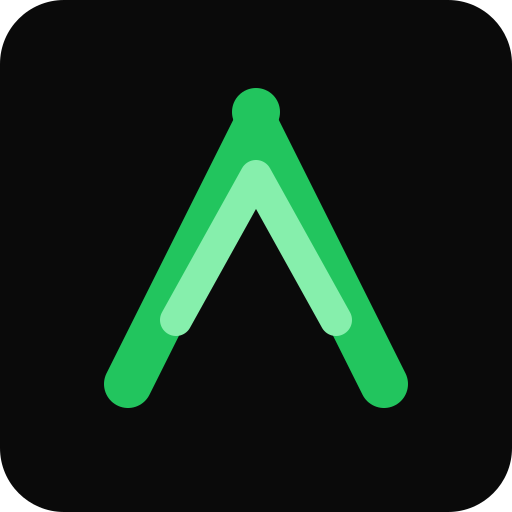
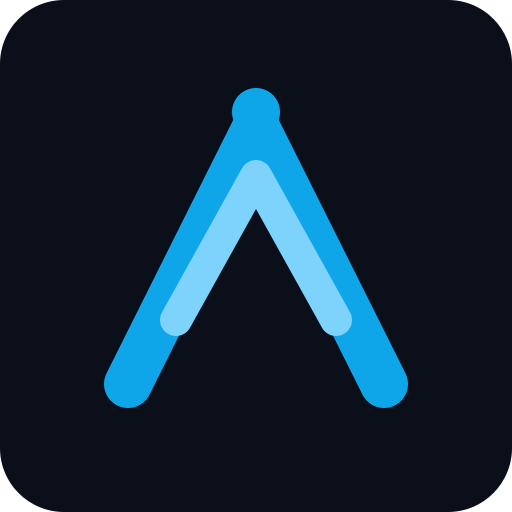
chore: update all brand assets from green to sky blue theme
- Update icon.svg: green (#22c55e) → sky blue (#0ea5e9) on dark navy (#0a0f1a)
- Regenerate all PNG icons (favicons, PWA, maskable, apple-touch)
- Update voice-pass-product.svg/png to match new color scheme
- Update manifest.json background_color and theme_color
- Update layout.tsx viewport themeColor
- Update generate-icons.ts background color constants

Changed region(s): [[0.1875, 0.1562, 0.8125, 0.8125]]

diff --git a/scripts/generate-icons.ts b/scripts/generate-icons.ts
@@ -37,7 +37,7 @@ async function generateIcon(svgBuffer: Buffer, config: IconConfig): Promise<void
     const padding = Math.round(config.size * config.padding);
 
     const resized = await sharp(svgBuffer)
-      .resize(innerSize, innerSize, { fit: "contain", background: { r: 10, g: 10, b: 10, alpha: 1 } })
+      .resize(innerSize, innerSize, { fit: "contain", background: { r: 10, g: 15, b: 26, alpha: 1 } })
       .png()
       .toBuffer();
 
@@ -48,14 +48,14 @@ async function generateIcon(svgBuffer: Buffer, config: IconConfig): Promise<void
         bottom: padding,
         left: padding,
         right: padding,
-        background: { r: 10, g: 10, b: 10, alpha: 1 }, // #0a0a0a
+        background: { r: 10, g: 15, b: 26, alpha: 1 }, // #0a0f1a
       })
       .png()
       .toFile(outputPath);
   } else {
     // Standard icon, just resize
     await sharp(svgBuffer)
-      .resize(config.size, config.size, { fit: "contain", background: { r: 10, g: 10, b: 10, alpha: 1 } })
+      .resize(config.size, config.size, { fit: "contain", background: { r: 10, g: 15, b: 26, alpha: 1 } })
       .png()
       .toFile(outputPath);
   }
@@ -66,7 +66,7 @@ async function generateIcon(svgBuffer: Buffer, config: IconConfig): Promise<void
 async function generateFavicon(svgBuffer: Buffer): Promise<void> {
   // Generate a 32x32 PNG first
   const png32 = await sharp(svgBuffer)
-    .resize(32, 32, { fit: "contain", background: { r: 10, g: 10, b: 10, alpha: 1 } })
+    .resize(32, 32, { fit: "contain", background: { r: 10, g: 15, b: 26, alpha: 1 } })
     .png()
     .toBuffer();
 
@@ -80,7 +80,7 @@ async function generateFavicon(svgBuffer: Buffer): Promise<void> {
 
   // Also create a 16x16 version
   await sharp(svgBuffer)
-    .resize(16, 16, { fit: "contain", background: { r: 10, g: 10, b: 10, alpha: 1 } })
+    .resize(16, 16, { fit: "contain", background: { r: 10, g: 15, b: 26, alpha: 1 } })
     .png()
     .toFile(join(PUBLIC_DIR, "favicon-16.png"));
 

diff --git a/src/app/layout.tsx b/src/app/layout.tsx
@@ -29,7 +29,7 @@ const title = `${LOCATION_CONFIG.siteName} | Descubre ${LOCATION_CONFIG.name}`;
 const description = LOCATION_CONFIG.seo.description;
 
 export const viewport: Viewport = {
-  themeColor: "#0a0a0a",
+  themeColor: "#0a0f1a",
   width: "device-width",
   initialScale: 1,
   maximumScale: 5,
